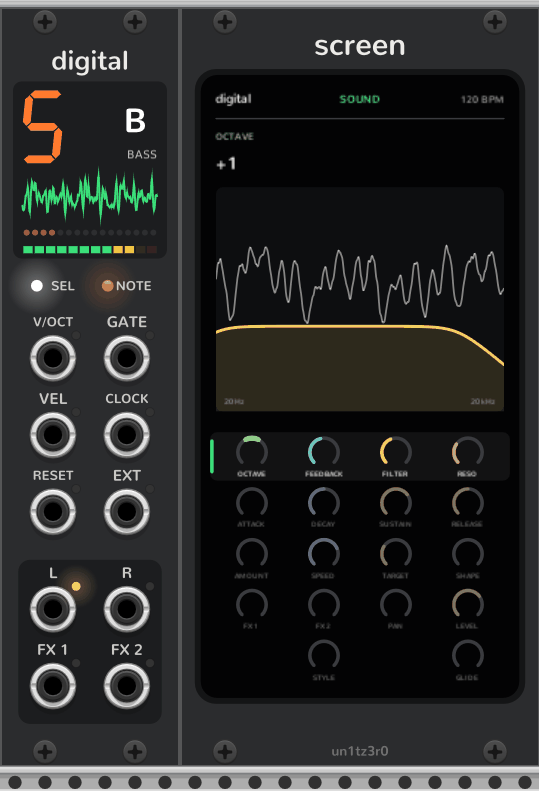
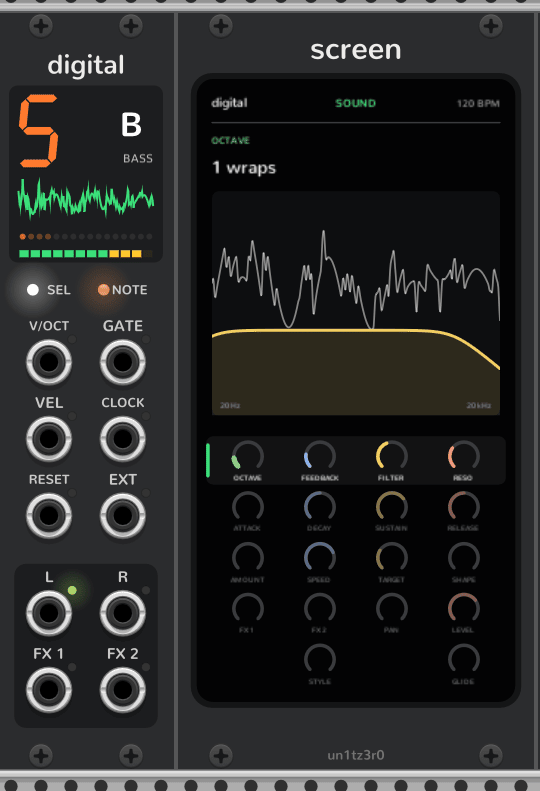
Digital's wrapping sine (v2.0.17) and live parameter-lock recording (v2.0.18) (#22)
* Digital: a wrapping sine with phase feedback (v2.0.17)

Octave now sets how many times each peak of the sine wraps around, 0 to 7,
and feedback is the sine's phase modulating itself before the wrap, as Vic
hears the hardware. The wrap runs at twice the sample rate with
antiderivative anti-aliasing. Patches from before 2.0.17 reset the two
dials, through an engine's optional SOUND_SINCE. TODO's Next is Vic's list.

Claude-Session: https://claude.ai/code/session_017BWEdfeGpBtthLAqDSJxRr

* Record dial turns live as parameter locks (v2.0.18)

While recording and playing, turning a dial locks the engine param on each
step the playhead passes. Holding STOP clears a held step's locks, or while
recording, the selected track's, once every step lights red.

Claude-Session: https://claude.ai/code/session_017BWEdfeGpBtthLAqDSJxRr

---------

diff --git a/src/opz/Sequencer.cpp b/src/opz/Sequencer.cpp
@@ -250,6 +250,7 @@ struct Sequencer : Module, BusNode {
 		LIGHTS_LEN
 	};
 	static constexpr float LONG_PRESS = 0.4f, CLEAR_HOLD = 1.f; // seconds
+	static constexpr float TURN_SETTLE = 0.5f; // seconds of still dials that end a recorded turn, for the undo history
 	static constexpr int SOURCES = KEYS + CHANNELS;             // live notes: the keys, then the GATE input's channels
 	static constexpr int ALL_KEYS = LOCK_PARAM - TRACK_PARAM + 1; // from TRACK_PARAM on, then MASTER_PARAM
 	enum { LATCH, FREE };                                         // the master track's note styles
@@ -498,7 +499,16 @@ struct Sequencer : Module, BusNode {
 	Punch punch;
 
 	KeyGesture gestures[ALL_KEYS]; // the keys', from TRACK_PARAM on
-	float clearing = -1.f;       // how long STOP has been held in track mode, or -1
+	float clearing = -1.f;       // how long STOP has been held to clear something, or -1
+	enum { PATTERNS, STEP_LOCKS, TRACK_LOCKS } clears = PATTERNS; // what: the track's or every pattern, or locks
+	int clearStep = -1;          // the held step whose locks it clears
+	// Dial turns recorded live as locks: the engine and params the dials turned at the last control step, their
+	// values then, and how long since a turn was recorded. A recalled scene moves the dials without a turn.
+	Track* watched = nullptr;
+	int watchedParams[4] = {-1, -1, -1, -1};
+	float watchedValues[4] = {};
+	bool rewatch = true;
+	float sinceTurned = INFINITY;
 	dsp::SchmittTrigger gates[CHANNELS], clockIn, runIn, resetIn, contIn, advanceIn;
 	dsp::PulseGenerator clockOut, resetOut, contOut;
 	bool external = false;
@@ -831,6 +841,7 @@ struct Sequencer : Module, BusNode {
 		}
 		muteGroup = scene.muteGroup;
 		readSettings();
+		rewatch = true;
 		held = -1;
 		selection = 0;
 		component = -1;
@@ -1232,16 +1243,24 @@ struct Sequencer : Module, BusNode {
 		}
 		if (clearing >= 0.f) {
 			const KeyGesture& stop = gestures[keyIndex(STOP_PARAM)];
-			if (!stop.down() || !(trackMode || projectMode))
+			if (!stop.down() || !clearable())
 				clearing = -1.f;
 			else if ((clearing = stop.held) >= CLEAR_HOLD) {
-				for (int t = 0; t < LANES; t++)
-					if (projectMode || t == track)
-						lanes[t].pattern.clear();
-				clearAll = projectMode && shifted;
+				if (clears == STEP_LOCKS)
+					lane().pattern.steps[held].clearLocks();
+				else if (clears == TRACK_LOCKS)
+					for (Step& s : lane().pattern.steps)
+						s.clearLocks();
+				else {
+					for (int t = 0; t < LANES; t++)
+						if (projectMode || t == track)
+							lanes[t].pattern.clear();
+					clearAll = projectMode && shifted;
+				}
 				clearing = -1.f;
 			}
 		}
+		recordDials(dt);
 
 		if (erasing) {
 			int step, ticks;
@@ -1252,6 +1271,37 @@ struct Sequencer : Module, BusNode {
 					if (n.on)
 						lane().pattern.steps[step].remove(n.pitch);
 		}
+	}
+
+	/** Whether holding STOP still clears what it started to: the pattern in track mode, every pattern in project
+	mode, the held step's locks, or while recording, the track's. */
+	bool clearable() const {
+		switch (clears) {
+			case STEP_LOCKS: return held >= 0 && held == clearStep && !modal();
+			case TRACK_LOCKS: return recording && !modal();
+			default: return trackMode || projectMode;
+		}
+	}
+
+	/** While recording and playing, a dial turned on the selected track's engine locks its value on the step under
+	the playhead, as the OP-Z records parameter locks live. The dial moves too, as it would without recording. */
+	void recordDials(float dt) {
+		sinceTurned += dt;
+		Track* e = recording && playing && held < 0 && !modal() && track != MASTER ? engine(track) : nullptr;
+		int step, ticks;
+		bool located = e && lane().player.locate(&step, &ticks);
+		for (int d = 0; d < 4; d++) {
+			int p = e ? e->dial(e->shownPage(), d) : -1;
+			float v = p >= 0 ? e->paramQuantities[p]->getScaledValue() : 0.f;
+			if (located && !rewatch && e == watched && p >= 0 && p == watchedParams[d] && v != watchedValues[d]) {
+				lane().pattern.steps[step].lock(p, v);
+				sinceTurned = 0.f;
+			}
+			watchedParams[d] = p;
+			watchedValues[d] = v;
+		}
+		watched = e;
+		rewatch = false;
 	}
 
 	/** Whether this press picks a key up: a long press, or a Ctrl+click, as the context menu allows. */
@@ -1384,9 +1434,18 @@ struct Sequencer : Module, BusNode {
 							s.clearComponents();
 						break;
 					}
-					if (!projectMode)
-						stop();
-					clearing = trackMode || projectMode ? 0.f : -1.f;
+					// Held, it clears a held step's locks, the pattern in track mode, every pattern in project mode, or
+					// while recording, the track's locks.
+					if (held >= 0 && !modal()) {
+						clears = STEP_LOCKS;
+						clearStep = held;
+					}
+					else {
+						if (!projectMode)
+							stop();
+						clears = trackMode || projectMode ? PATTERNS : TRACK_LOCKS;
+					}
+					clearing = clearable() ? 0.f : -1.f;
 					break;
 				case OCTAVE_DOWN_PARAM: shift(-1); break;
 				case OCTAVE_UP_PARAM: shift(1); break;
@@ -1688,7 +1747,7 @@ struct Sequencer : Module, BusNode {
 
 		// Steps: orange for notes, white for the playhead (red while recording), blue for how long the held step's
 		// notes last. In track mode, the tracks on the first eight, white for the one selected and orange while one
-		// plays; with SHIFT, white up to the step count. Holding STOP there fills them red until the pattern clears.
+		// plays; with SHIFT, white up to the step count. Holding STOP to clear something fills them red until it clears.
 		for (int i = 0; i < STEPS; i++) {
 			NVGcolor c = led::WHITE;
 			float b = 0.f;
@@ -2781,7 +2840,9 @@ struct SequencerWidget : ModuleWidget {
 			}
 			m->recall = Sequencer::SETTLED;
 		}
-		for (int t = 0; !m->turningLock && t < LANES; t++) {
+		// A turn of a dial, on a held step's lock or recorded live, is one edit when it's done.
+		bool turning = m->turningLock || m->sinceTurned < Sequencer::TURN_SETTLE;
+		for (int t = 0; !turning && t < LANES; t++) {
 			Sequencer::Lane& l = m->lanes[t];
 			if (l.pattern == l.recorded)
 				continue;

diff --git a/src/Digital.cpp b/src/Digital.cpp
@@ -1,45 +1,69 @@
 /*
 Digital: the OP-Z's raw digital engine on an OP-Z synth track.
 
-Two oscillators, each a 32-bit binary counter whose top five bits index a 32-step, 4-bit sine with no
-interpolation, so the steps and their aliasing are part of the sound. One modulates the phase of the other:
-OCTAVE sets the modulator's frequency in octaves above or below the carrier, FEEDBACK how hard it modulates.
+A sine read from a 32-bit binary counter, driven past full scale so it wraps around rather than clipping, as integer
+overflow would: OCTAVE sets how many times each peak wraps. FEEDBACK adds the sine back to its own phase, as an FM
+operator modulating itself, which leans it towards a saw before the wrap. The wrap runs at twice the sample rate, with
+first-order antiderivative anti-aliasing on its edges, so it keeps its hard edge without the worst of its aliasing.
 */
 #include "opz/SynthTrackWidget.hpp"
 #include <array>
 
 struct Digital {
 	static constexpr const char* SLUG = "Digital";
+	static constexpr const char* SOUND_SINCE = "2.0.17"; // patches before had octave and FM depth on these dials
+	static constexpr float WRAPS = 7.f;
 
 	static void configSound(Module* m, int p1, int p2) {
-		m->configSwitch(p1, -2.f, 3.f, 1.f, "Octave", {"-2", "-1", "0", "+1", "+2", "+3"})->description = "Modulator pitch, in octaves from the note";
-		m->configParam(p2, 0.f, 1.f, 0.3f, "Feedback", "%", 0.f, 100.f)->description = "Depth of the frequency modulation";
+		m->configParam(p1, 0.f, 1.f, 1.f / WRAPS, "Octave", " wraps", 0.f, WRAPS)->description = "How many times each peak of the sine wraps around";
+		m->configParam(p2, 0.f, 1.f, 0.2f, "Feedback", "%", 0.f, 100.f)->description = "How hard the output modulates its own phase";
 	}
 
-	/** A sine sampled at the middle of each of 32 steps and rounded to 16 levels, symmetric so it has no DC. */
-	static inline const std::array<float, 32> SINE = []() {
-		std::array<float, 32> t;
-		for (int i = 0; i < 32; i++)
-			t[i] = (std::round(7.5f * std::sin(2.f * float(M_PI) * (i + 0.5f) / 32.f) + 7.5f) - 7.5f) / 7.5f;
+	static constexpr int SIZE = 2048;
+	static inline const std::array<float, SIZE + 1> SINE = []() {
+		std::array<float, SIZE + 1> t;
+		for (int i = 0; i <= SIZE; i++)
+			t[i] = std::sin(2.f * float(M_PI) * i / SIZE);
 		return t;
 	}();
 
-	static float wave(uint32_t phase) {
-		return SINE[phase >> 27];
+	static float sine(uint32_t phase) {
+		uint32_t i = phase >> 21;
+		float f = (phase & 0x1fffff) * (1.f / 0x200000);
+		return SINE[i] + (SINE[i + 1] - SINE[i]) * f;
+	}
+
+	/** Wraps x into [-1, 1), and its antiderivative, which is continuous since both sides of an edge square to 1. */
+	static float wrap(float x) {
+		return x - 2.f * std::floor(0.5f * (x + 1.f));
+	}
+	static float wrapIntegral(float x) {
+		float w = wrap(x);
+		return 0.5f * w * w;
 	}
 
 	struct Voice {
-		uint32_t carrier = 0, modulator = 0;
+		uint32_t phase = 0;
+		float sine1 = 0.f, sine2 = 0.f, x = 0.f;
+		dsp::Decimator<2, 8> decimator;
 
 		float process(float frequency, float sampleTime, float octave, float feedback, float) {
-			uint32_t increment = uint32_t(std::fmin(frequency * sampleTime, 0.5f) * 4294967296.f);
-			int shift = (int) octave;
-			carrier += increment;
-			// Shifting the increment moves the modulator by whole octaves. Above Nyquist it wraps, like the hardware counter would.
-			modulator += shift >= 0 ? increment << shift : increment >> -shift;
-			// Up to two whole cycles of phase deviation, squared for a gentle start.
-			float depth = 2.f * feedback * feedback * wave(modulator);
-			return wave(carrier + uint32_t(int64_t(depth * 4294967296.f)));
+			uint32_t increment = uint32_t(std::fmin(0.5f * frequency * sampleTime, 0.25f) * 4294967296.f);
+			// Up to three tenths of a cycle of self-modulation, squared for a gentle start, from the last two values
+			// averaged so it doesn't flip between two at the top.
+			float depth = 0.3f * feedback * feedback * 4294967296.f;
+			float drive = 0.99f + 2.f * WRAPS * octave;
+			float y[2];
+			for (float& out : y) {
+				phase += increment;
+				float s = sine(phase + uint32_t(int64_t(depth * 0.5f * (sine1 + sine2))));
+				sine2 = sine1;
+				sine1 = s;
+				float x1 = drive * s, dx = x1 - x;
+				out = std::fabs(dx) > 1e-4f ? (wrapIntegral(x1) - wrapIntegral(x)) / dx : wrap(0.5f * (x1 + x));
+				x = x1;
+			}
+			return decimator.process(y);
 		}
 	};
 };

diff --git a/src/opz/SynthTrack.hpp b/src/opz/SynthTrack.hpp
@@ -20,6 +20,17 @@ namespace opz {
 
 enum Style { POLY, MONO, LEGATO, STYLES_LEN };
 
+/** An engine's optional SOUND_SINCE: the version its two dials took their present meaning, so older patches reset
+them rather than load a value meant for something else. */
+template <class Engine, class = void>
+struct SoundSince {
+	static constexpr const char* value = nullptr;
+};
+template <class Engine>
+struct SoundSince<Engine, std::void_t<decltype(Engine::SOUND_SINCE)>> {
+	static constexpr const char* value = Engine::SOUND_SINCE;
+};
+
 template <class Engine>
 struct SynthTrack : Track {
 
@@ -39,6 +50,15 @@ struct SynthTrack : Track {
 		Engine::configSound(this, P1_PARAM, P2_PARAM);
 		configTrack({"Poly", "Mono", "Legato"},
 			"Mono plays the newest held note and retriggers on every change; legato slides between held notes without retriggering");
+	}
+
+	void fromJson(json_t* root) override {
+		Track::fromJson(root);
+		const char* version = json_string_value(json_object_get(root, "version"));
+		if (SoundSince<Engine>::value && (!version || string::Version(version) < string::Version(SoundSince<Engine>::value))) {
+			paramQuantities[P1_PARAM]->reset();
+			paramQuantities[P2_PARAM]->reset();
+		}
 	}
 
 	const xyz::Adsr* envelope(int voice, float* velocity) const override {

diff --git a/TODO.md b/TODO.md
@@ -2,12 +2,15 @@
 
 ## Next
 
-Nothing queued: the next pick comes from **Later** or the loose ends.
+In Vic's order (2026-10-19); the OP-XY waits for a fresh start.
+
+- [ ] **Kit editing:** a kit's slice starts and ends, and each slice's tuning and play mode, can't be changed in
+      Rack yet, and kits can't be saved back out as OP-1 kit files.
+- [ ] **More OP-Z synth engines,** each a `Voice` and two dials on the shared synth track.
 
 ## Later
 
 - [ ] **More FX,** if the OP-Z has any the six here miss: each is one `Unit` for `FxTrack`.
-- [ ] **More OP-Z synth engines,** each a `Voice` and two dials on the shared synth track.
 - [ ] **The OP-XY:** its sequencer and engines, once the OP-Z's are complete.
 - [ ] **VCV Library:** releases go on GitHub for now, since VCV's guidelines bar copying a product's layout without
       its maker's permission. Next would be asking teenage engineering; a redesign under another name is the last
@@ -15,14 +18,12 @@ Nothing queued: the next pick comes from **Later** or the loose ends.
 
 ## Loose ends
 
-- [ ] Tune by ear: each engine's voicing, the built-in drum kits and the drums' level against the synths, the sweep
+- [ ] Tune by ear: each engine's voicing (Digital's wrap range and feedback ceiling too), the built-in drum kits and the drums' level against the synths, the sweep
       component's depth (half a dial's travel now) and portamento component's glide times (up to a beat now).
 - [ ] **Drum note styles** follow a reading of the guide (retrig rings two sounds or more, mono chokes, gate and
       loop follow the note). Check them against the hardware.
 - [ ] **OP-1 kit files:** the slices' pitch and volume encodings are guesses. Check them with a kit whose sounds
       are retuned or turned down on an OP-1 or OP-Z.
-- [ ] **Kit editing:** a kit's slice starts and ends, and each slice's tuning and play mode, can't be changed in
-      Rack yet, and kits can't be saved back out as OP-1 kit files.
 - [ ] Loading a kit from the context menu isn't undoable.
 - [ ] A preset keeps a loaded kit's slices but not its sounds, which live in the patch's storage folder.
 - [ ] Jack LEDs on unpatched outputs stay dark, since an unpatched output has no channels to meter.
@@ -30,16 +31,11 @@ Nothing queued: the next pick comes from **Later** or the loose ends.
 - [ ] **OP-Z project files** are untested on a real OP-Z. Check an export loads, and work out the track settings'
       bytes (step count, step length, note length, quantize) and swing, which are guesses.
 - [ ] Write the mixer's mutes into exported project files.
-- [ ] **Recording dial moves as parameter locks** while recording live, if the OP-Z does: the dials only lock a
-      held step now.
 - [ ] A Screen shows the dials' own values, not the locks of the step playing.
 - [ ] Exported project files hold micro timing from −12 to +11 ticks, as the OP-Z's own do, so notes further off the
       step than that are pulled in.
 - [ ] **CI:** `actions/checkout@v4` and `upload-artifact@v4` warn about Node 20, and the Linux build runs in an
       end-of-life `ubuntu:20.04` container, kept for its old glibc.
-- [ ] **Digital's dials:** on the hardware the main wave is a sine that wraps around as it's driven, P1 setting how
-      many times it wraps and P2 some kind of phase self-modulation (Vic, 2026-10-14). Digital's P1 is the
-      modulator's octave and P2 the FM depth now; rework them to match, and tune by ear.
 - [ ] **Key detection and the master track** follow a reading of the guide. Check against the hardware: which keys
       it finds for ambiguous patterns, where home is, whether latch lets go at the pattern's start or the bar's, and
       what the tonality component's quantize values snap to.

diff --git a/DESIGN.md b/DESIGN.md
@@ -133,7 +133,10 @@ tested on its own. `src/opz/Sequencer.cpp` is the module: the face, the modes, r
   let its locks through, and the lane carries the locks of the slot under the playhead; the engine reads every dial
   through `value()`, which takes a lock over the param, so the knob stays put. While a step is held, the dials
   turn four `LockQuantity` params on the Sequencer that read and write the held step's locks on the UI thread, as
-  the step menu does, and the pattern's undo records the change.
+  the step menu does, and the pattern's undo records the change. Recording live, the audio thread watches the
+  engine params under the four dials at each control step, and a change locks the param on the step under the
+  playhead; a recalled scene moves them without counting as a turn. The undo history waits until the dials have been
+  still half a second, so a turn is one edit (the knob's own move is another).
 - **Arp:** the arp lives in the arp track's player, so every engine, Breakout included, gets its notes as ordinary
   ones over the bus. With it on, the player's channels hold the notes (all 16, whatever the polyphony) and a second
   set of channels, as many as the polyphony, carries what it plays. Its dials are the engine's four extra params,
@@ -198,9 +201,10 @@ do, so the plugin can go to the VCV Library some day.
 - **Drum keys:** F3 to E5 play the 24 sounds, and other octaves wrap around to them rather than going silent.
 - **OP-1 kit encodings:** markers at 4058 to a sample and the play mode and reverse values are well established;
   pitch as 512ths of a semitone and volume with 8192 as unity are guesses.
-- **Digital's dials:** octave steps the modulator from −2 to +3 octaves from the note, and feedback is FM depth, up
-  to two cycles of phase deviation. Vic hears the hardware differently: a sine that wraps around as it's driven,
-  octave setting how many times it wraps and feedback some kind of phase self-modulation. TODO has the rework.
+- **Digital's dials** follow Vic's reading of the hardware: the sine wraps around as it's driven, octave setting how
+  many times each peak wraps (0 to 7, continuously), and feedback is the sine's phase modulating itself, up to three
+  tenths of a cycle, before the wrap. The wrap runs at twice the sample rate with antiderivative anti-aliasing. A
+  patch from before 2.0.17, when these dials were the modulator's octave and FM depth, resets them on loading.
 - **LFO:** synced speeds run 1/64 at the far left to 2/1 just left of centre, in the order the guide lists them, so
   the dial is slowest in the middle. Depth is squared, for fine vibrato; at full depth the LFO sweeps a target's
   whole range, or ±2 octaves of pitch. Free shapes are bipolar; note-triggered shapes are unipolar.

diff --git a/docs/sequencer.md b/docs/sequencer.md
@@ -58,7 +58,8 @@ row of jacks: the transport's inputs, the notes to record, then the transport's 
   and its LED turns white; double-click it to let go of the lock. A lock holds the engine's dial where you set it
   for as long as the step is under the playhead, then lets it go back to where the dial is, so the knob itself
   never moves. Any dial on any of the four pages can be locked, and a held step plays with its locks while stopped,
-  so you can hear them. A step's tooltip counts its locks, and its context menu clears them.
+  so you can hear them. A step's tooltip counts its locks, and its context menu clears them. With a step held, hold
+  **STOP** until every step lights red to clear its locks (playback carries on); let go sooner to keep them.
 - **Step components:** with **SHIFT** latched, steps take components that bend how they play. See
   [Step components](step-components.md).
 
@@ -178,6 +179,12 @@ Click **REC** to switch it on. While playing, notes from the keys and inputs go 
 micro timing and length. Hold notes on the inputs and click **−** to erase them from the steps they pass instead,
 until they're released. While stopped, REC records a step at a time: each note or chord goes into the blinking step,
 which moves on when they're released. Click a step to move it there.
+
+Turn a dial while recording and playing to record it as parameter locks: each step the playhead passes while the
+dial moves locks it where it is then, and steps it passes while the dial is still keep the locks they had. The dial
+itself moves too, for the steps without locks. One turn is one undo step. Hold **STOP** while recording until every
+step lights red to clear all the selected track's locks; let go sooner to keep them. Playback stops at the press, as
+it always does.
 
 ## Transport and clock
 

diff --git a/docs/synth-tracks.md b/docs/synth-tracks.md
@@ -98,7 +98,7 @@ dials like any other. A patch saved before the arp opens with it off, so the arp
 
 | Engine | Sound | First dial | Second dial |
 | --- | --- | --- | --- |
-| Digital | Two binary-counter oscillators reading a 32-step, 4-bit sine with no interpolation, one frequency-modulating the other | **Octave**: the modulator's pitch, in octaves from the note | **Feedback**: FM depth |
+| Digital | A sine on a binary counter, driven past full scale so it wraps around like an overflowing integer | **Octave**: how many times each peak wraps, 0 to 7 | **Feedback**: how hard the sine modulates its own phase, leaning it towards a saw |
 | Analog | A saw, a square an octave below and noise, through a low-pass the amp envelope opens | **Mix**: saw, then saw and sub, then sub and noise | **Envelope**: how far the filter closes between notes, for the envelope to sweep it up to eight octaves |
 | Cluster | Seven detuned saws per note | **Tone**: a low-pass that follows the note, from a near sine to fully bright | **Gravity**: pulls the saws together, from almost two semitones each way to one saw |
 | Organ | Up to four sine carriers and one modulator, in eight algorithms | **Algorithm**: flute, jazz, full and gospel drawbars, reed, pipe, combo, bell | **Tweak**: FM depth, from pure drawbars to grit |
